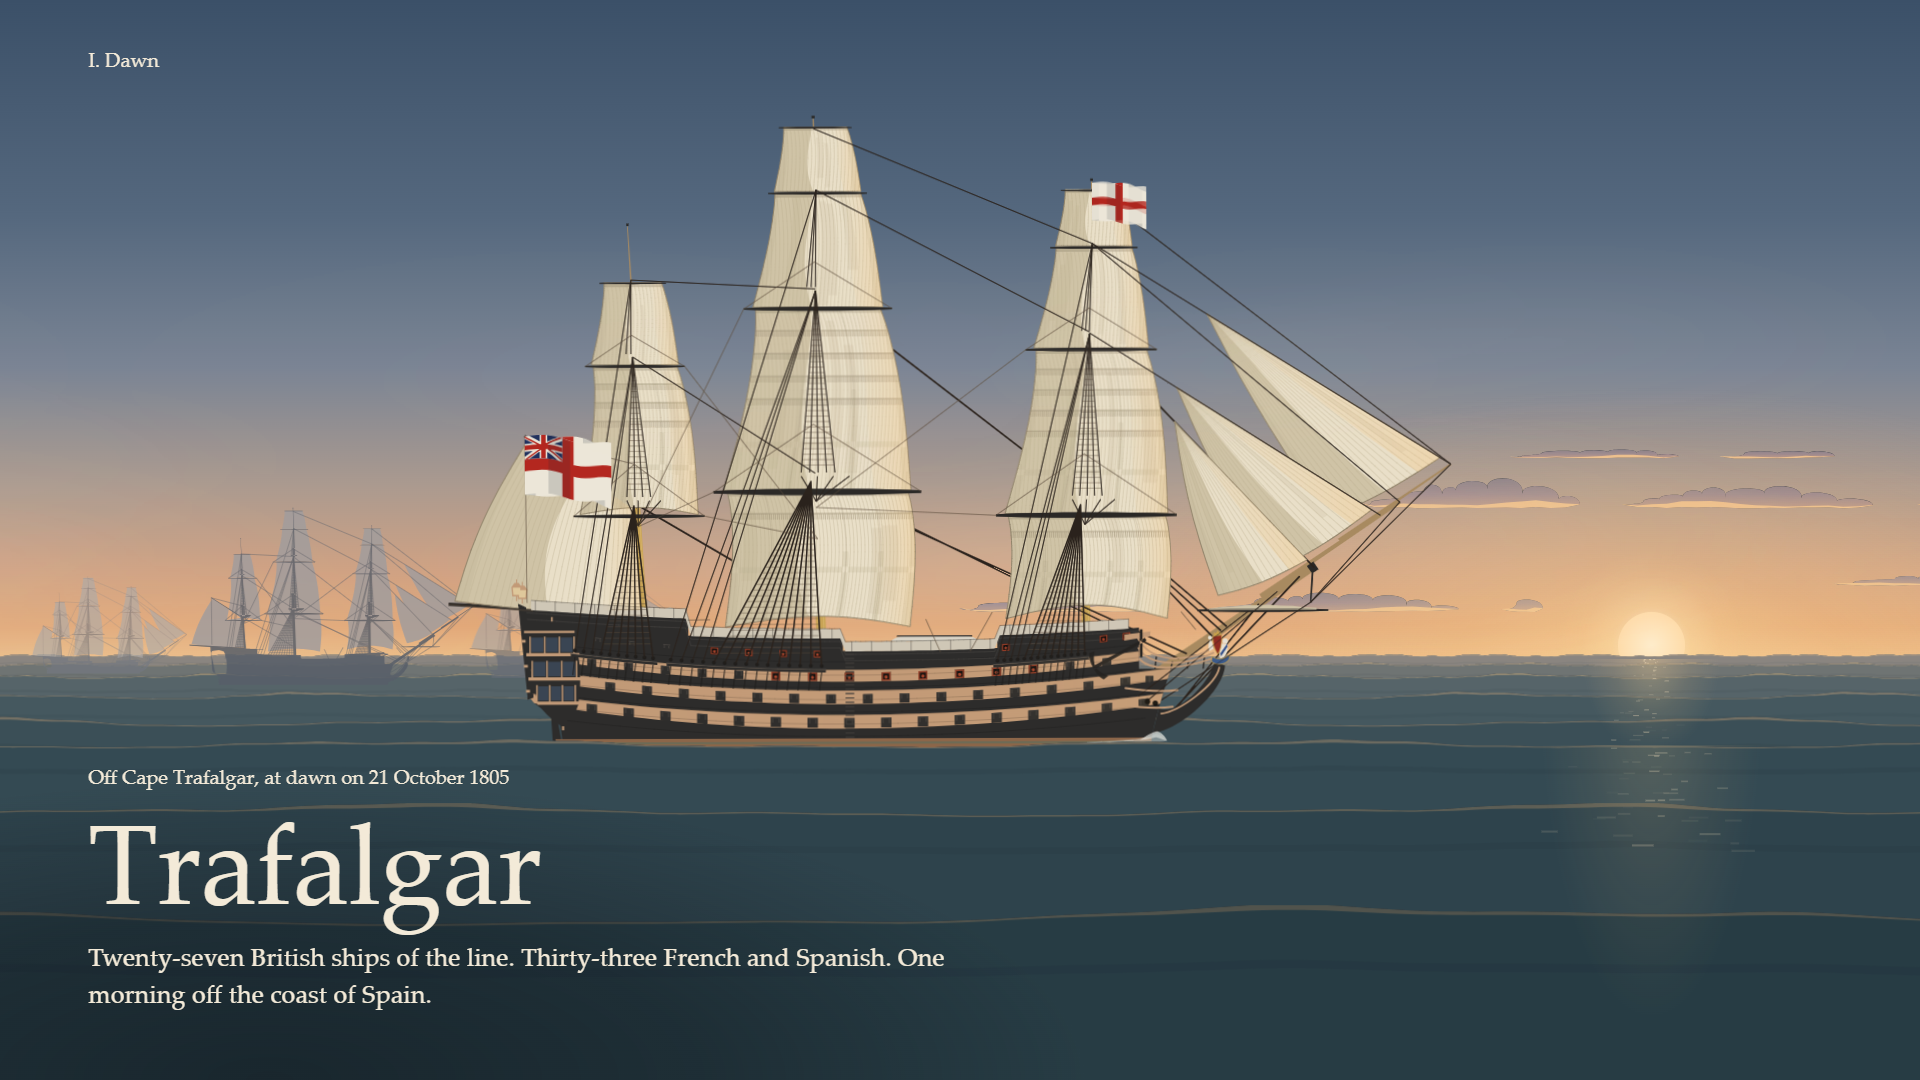
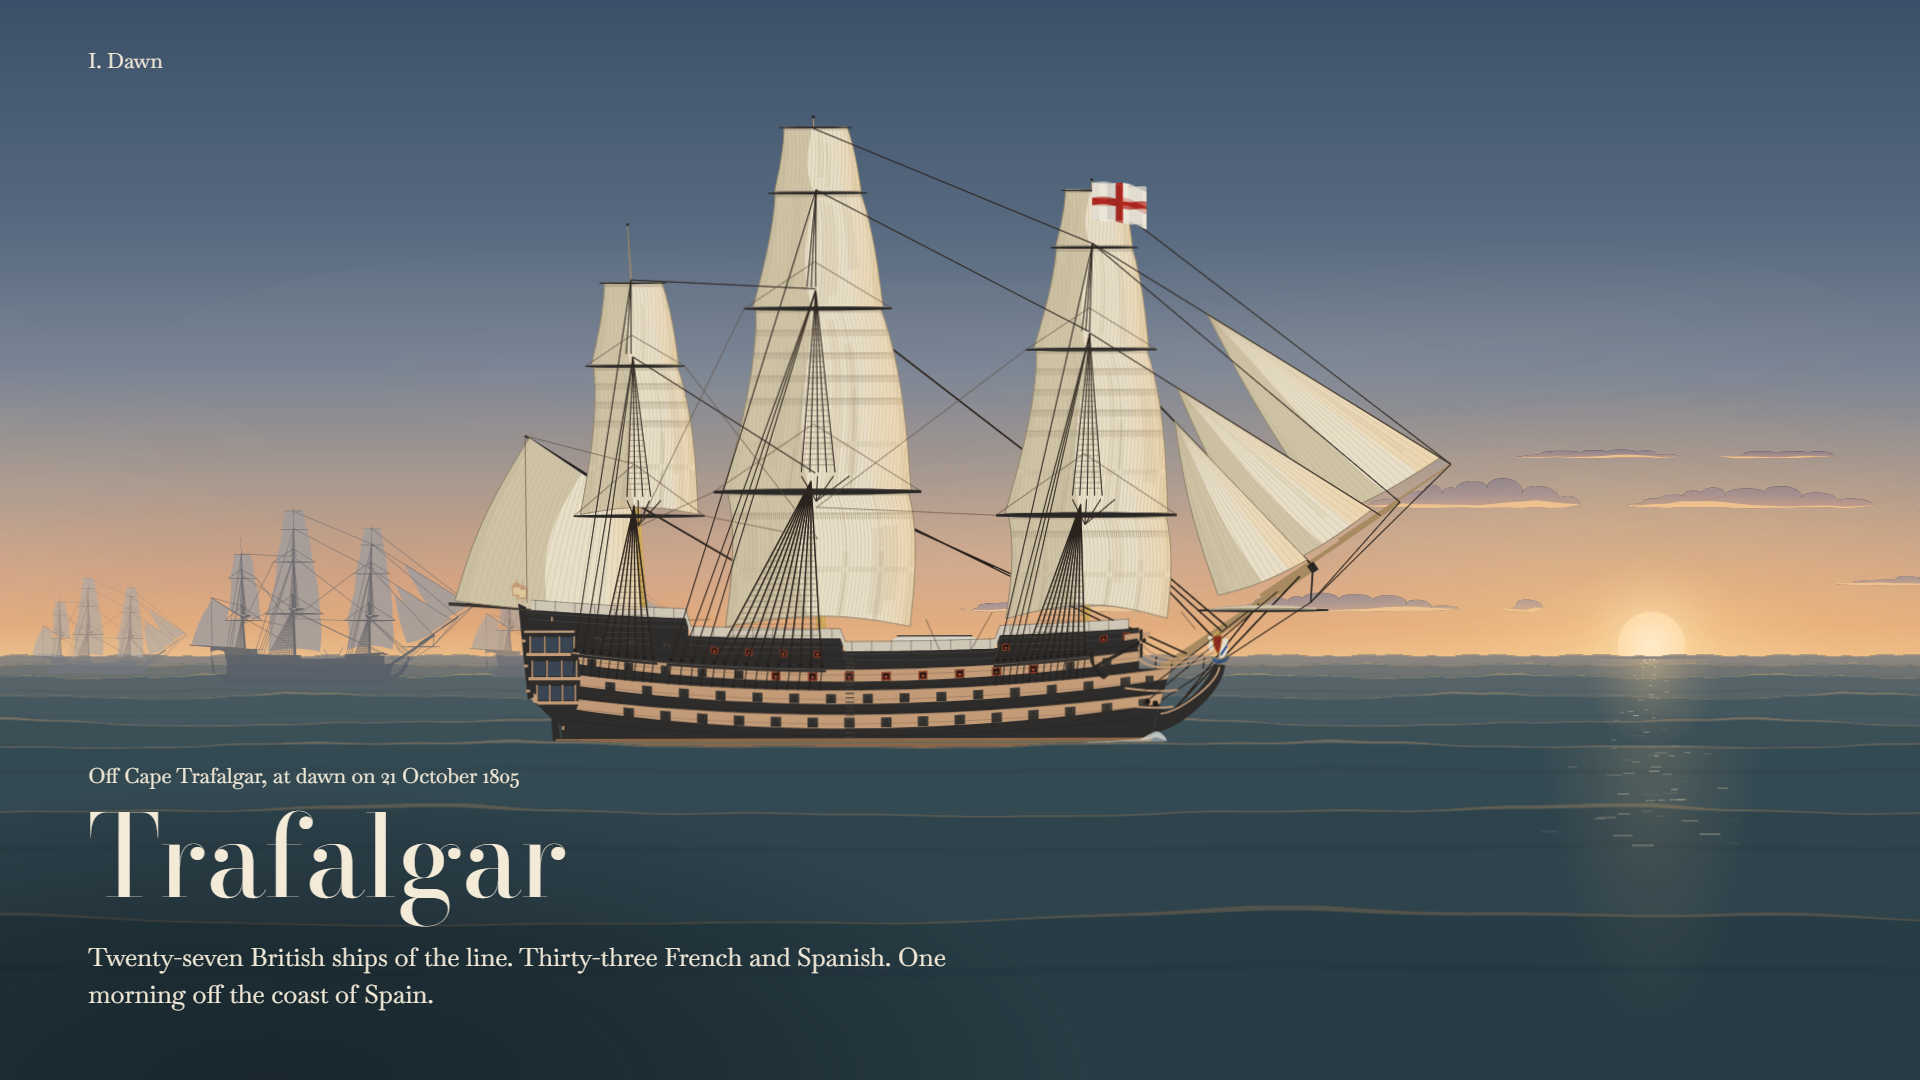
Rebalance the title block around Bodoni Moda's descender and close the round
The lede gets the space the dateline gave up, so the long g no longer
crowds it and the dateline keeps its place. Screenshots regenerated and
reviewed; npm run check is green.

diff --git a/src/scenes/01-dawn/layers/TextOverlay.tsx b/src/scenes/01-dawn/layers/TextOverlay.tsx
@@ -39,7 +39,7 @@ export function TextOverlay() {
       >
         <p
           data-el="dateline"
-          className="mb-[1.6vh] text-[clamp(14px,2vh,21px)] leading-snug text-ink"
+          className="mb-[1vh] text-[clamp(14px,2vh,21px)] leading-snug text-ink"
         >
           {dawnContent.dateline}
         </p>
@@ -54,7 +54,7 @@ export function TextOverlay() {
             </h1>
             <p
               data-el="lede"
-              className="mt-[2.2vh] max-w-[34em] text-[clamp(16px,2.35vh,27px)] leading-[1.45] text-ink"
+              className="mt-[2.8vh] max-w-[34em] text-[clamp(16px,2.35vh,27px)] leading-[1.45] text-ink"
             >
               {dawnContent.lede}
             </p>

diff --git a/docs/decisions.md b/docs/decisions.md
@@ -183,6 +183,7 @@ The owner reviewed scene 1: a steady 60 fps on his laptop with `?debug`. This ro
 - **Optical sizing.** `font-optical-sizing: auto` on the title (and the fallback screen's title): Bodoni Moda's `opsz` follows the font size, about 76 on the laptop and its maximum, 96, from 1080p up.
 - **Kerning restored after the split (new).** SplitText wraps each letter in an inline block, which drops kerning; in Bodoni Moda "fa", "ga" and "ar" opened by 1–2 px on the laptop and up to 4 px at 1440p. The scene now measures the kerned positions in an unsplit copy and gives the letters the difference as em margins. Kerning depends on the loaded face, so the title is re-split on every `loadingdone` and on resize (SplitText's own `autoSplit` covers only line splits). A test holds every letter within 0.5 px of its kerned position.
 - **The smallest text tier is one step larger.** Baskervville's x-height is 0.436 em against Palatino's 0.469, so at the same size the dateline, chapter marker and scroll cue read about 7 % smaller than planned. They go from `clamp(13px, 1.85vh, 20px)` to `clamp(14px, 2vh, 21px)` (the cue from `clamp(12px, 1.6vh, 16px)` to `clamp(13px, 1.75vh, 17px)`), which restores the planned x-height on the laptop. The lede and caption keep their size. Weight stays 400.
+- **The title block's spacing.** Bodoni Moda's "g" has a long descender, which left it about 11 px above the lede on the laptop while the dateline sat 21 px above the title's capitals. 0.6 vh moved from under the dateline to above the lede (`mb-[1vh]`, `mt-[2.8vh]`): the dateline keeps its place clear of Victory's hull, the title rises about 4 px, and the gaps become about 16 and 14 px.
 - **Legibility over the moving background, measured.** With the glyphs hidden and the scrim kept, the background behind each text block was sampled at p = 0 to 1 in steps of 0.05, twice per step while the sea, haze and glitter kept moving, at 1280×720, 1920×1080 and 3440×1440. Against the 99th-percentile brightest background pixel, the worst cases were: chapter marker 6.1:1, dateline 6.1:1, closing caption 6.5:1, lede 10.1:1, scroll cue 13.5:1, title 6.2:1. All clear WCAG AA (4.5:1 for small text) with margin, so the scrim stays as it was.
 
 ### The owner's answers on the rig and flags

diff --git a/docs/progress.md b/docs/progress.md
@@ -72,4 +72,4 @@ Legend: `[x]` done, `[~]` built but not yet reviewed or finished, `[ ]` not star
 - [x] Lower gun deck: 15 ports a side, as on the contemporary model (bow port kept, aftmost dropped); derived specs now scale explicit port positions too
 - [x] `docs/backlog.md` for later scenes: studding sails and the ensign hoist (approach scene), port interiors (when ports open)
 - [x] Public-repository hygiene: research notes keep only our own words and links (modern quotations paraphrased, long period quotations trimmed; rules in `docs/research/README.md`); nothing downloaded was ever committed; `/docs/research/sources/` git-ignored. **Waiting for the owner:** whether to rewrite history so the old wording of the three research notes (commit `a87b070` onwards) goes too
-- [ ] `npm run check`, screenshots regenerated and reviewed, docs updated
+- [x] `npm run check` green (16 tests, no long tasks during the scripted scroll; video in `test-results/`); all 17 screenshots regenerated and reviewed (laptop set, large screens, reduced motion, fallback, lab and close-ups); one fix from the review: the title block's spacing around Bodoni Moda's long descender; docs updated
